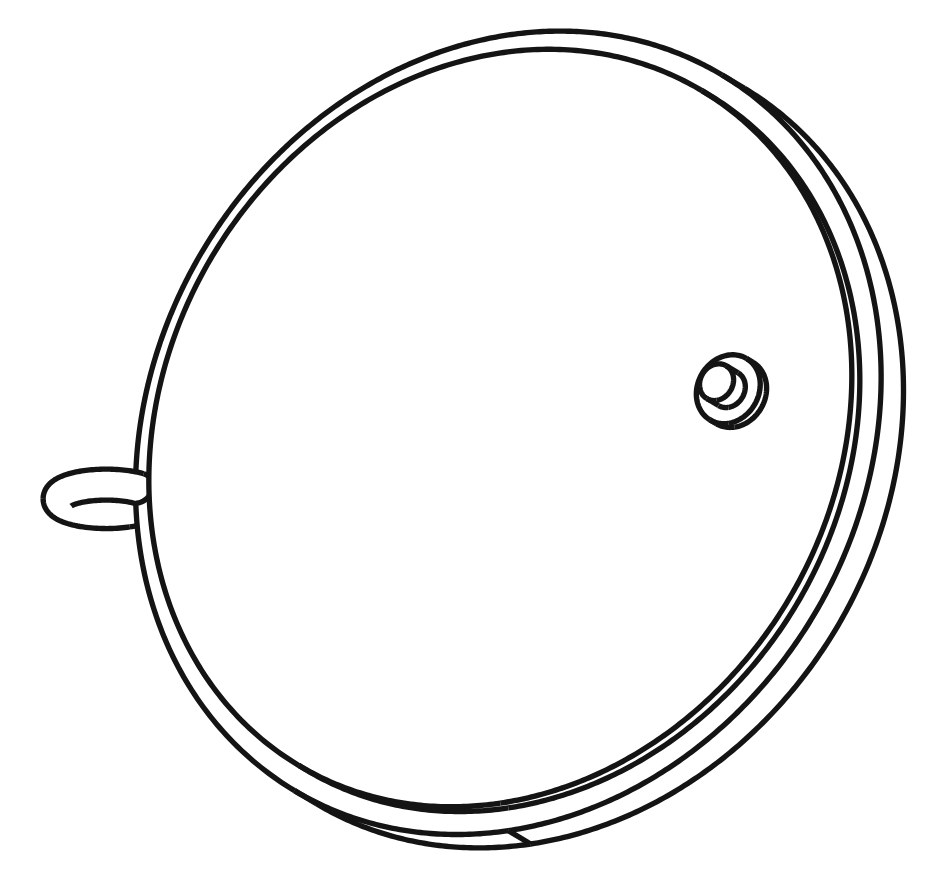
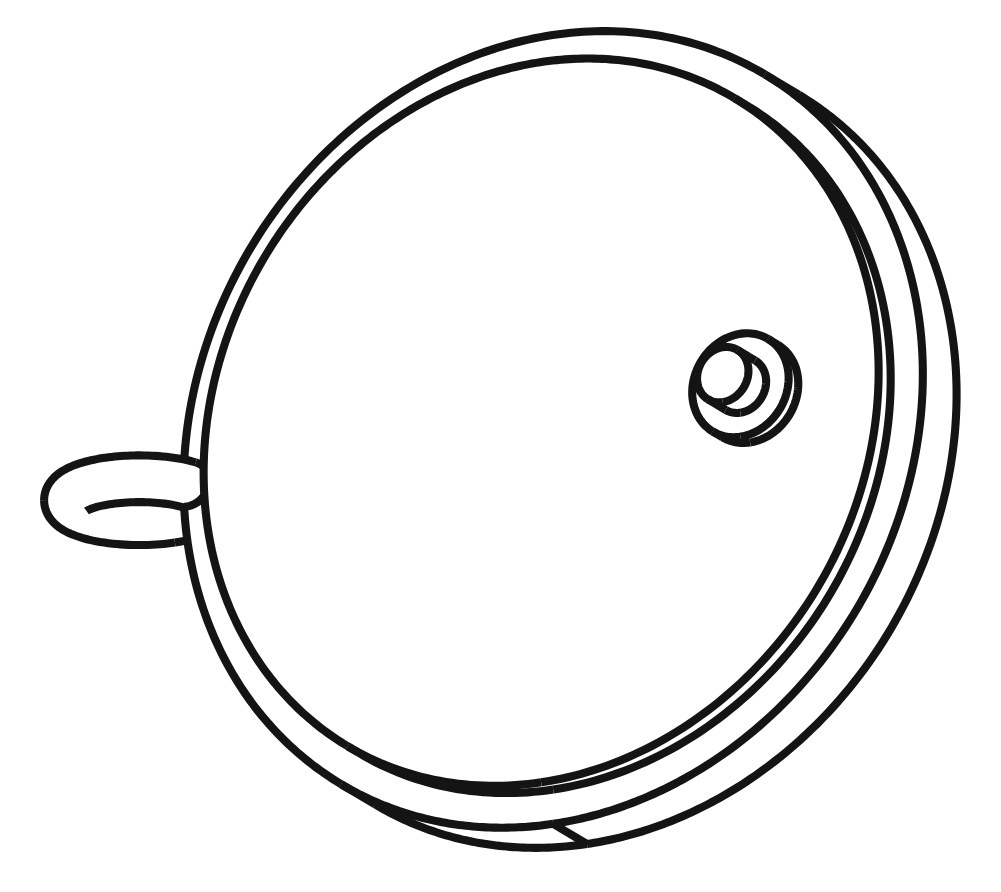
unfiled/lace: mirror and case made the same 4.6 cm, measurements in cm and a dimensioned drawing, so James can shop for a small mirror that matches

Changed region(s): [[0.0306, 0.0303, 0.9799, 0.9697], [0.6737, 0.3636, 0.8268, 0.5152]]

diff --git a/site/unfiled/lace/index.html b/site/unfiled/lace/index.html
@@ -43,20 +43,23 @@
 
 <h2>1. The pieces</h2>
 
+<div class="fig"><img src="img/06_pair_face.jpg" width="560" alt="Line drawing with dimensions: the wooden case face on and the mirror disc from behind, side by side, each 4.6 cm across, with a 1 cm scale bar."><br>
+<b>Fig. 0.</b> The pair, to scale. Two matching discs, each <b>4.6 cm</b> across. The wooden case is 1.6 cm deep with the Puck inside; the mirror is 0.4 cm with its leather backing (shown from behind, with its snap stud).</div>
+
 <div class="fig"><img src="img/02_case_front.jpg" width="320" alt="Line drawing, face on: a round wooden case with an engraved sigil of a ring, a stroke and two dots, a cord ring at the top and a small snap socket at the bottom."><br>
-<b>Fig. 1.</b> The everyday piece. A turned wooden case, 46 mm across, holding a Puck.js. The face is 1 mm of veneer, thin enough for the Puck's LED to glow through. The sigil is engraved: a ring, a stroke and two dots, which reads as a small face. Cord ring at the top, brass snap socket at the bottom.</div>
+<b>Fig. 1.</b> The everyday piece. A turned wooden case, 4.6 cm across and 1.6 cm deep, holding a Puck.js. The face is 1 mm of veneer, thin enough for the Puck's LED to glow through. The sigil is engraved: a ring, a stroke and two dots, which reads as a small face. Cord ring at the top, brass snap socket at the bottom.</div>
 
 <div class="fig"><img src="img/01_case_exploded.jpg" width="320" alt="Line drawing, exploded from below: the screw-on back cap, the Puck disc, and the wooden case above."><br>
-<b>Fig. 2.</b> Opened, seen from below. Screw-on back cap, the Puck (36 mm, its own coin cell), the case. The back unscrews to change the battery.</div>
+<b>Fig. 2.</b> Opened, seen from below. Screw-on back cap, the Puck (3.6 cm, its own coin cell), the case. The back unscrews to change the battery.</div>
 
 <div class="fig"><img src="img/03_case_section.jpg" width="520" alt="Line drawing, half section: the Puck sits inside the case behind the thin face, the back cap below, the snap socket on the left, the cord ring on the right."><br>
 <b>Fig. 3.</b> Half section. The Puck sits right behind the thin face, so its button presses through the wood and its light and radio pass through. The snap socket on the edge is wired inside to the Puck's touch pin.</div>
 
 <div class="fig"><img src="img/04_mirror_back.jpg" width="360" alt="Line drawing, a 70 mm disc seen from behind, with a cord loop at the top edge and a snap stud on the back."><br>
-<b>Fig. 4.</b> The mirror, from behind. A 70 mm disc with a raised rim on the face, leather on the back so it doesn't read your chest as a touch, a loop for the cord, and a male snap stud.</div>
+<b>Fig. 4.</b> The mirror, from behind. A 4.6 cm disc, the same size as the case, with a raised rim on the face, leather on the back so it doesn't read your chest as a touch, a loop for the cord, and a male snap stud.</div>
 
 <div class="fig"><img src="img/05_worn_together.jpg" width="260" alt="Line drawing: the mirror disc above, and the wooden case hanging below it on a short lead."><br>
-<b>Fig. 5.</b> Worn together. The mirror hangs on the chest and the Puck clips on below by one wire. The mirror is optional; wear it when you want to.</div>
+<b>Fig. 5.</b> Worn together. The mirror hangs on the chest and the Puck clips on below by one wire, about 2 cm of lead. Top to bottom it is about 12 cm. The mirror is optional; wear it when you want to.</div>
 
 <h2>2. How it works</h2>
 
@@ -114,16 +117,20 @@
 <h2>5. Spec</h2>
 <table>
 <tr><th>part</th><th>detail</th><th>about</th></tr>
-<tr><td>Puck.js v2 (Espruino)</td><td>36 mm, Bluetooth, NFC, button, RGB LEDs, accelerometer, gyro, magnetometer, IR transmitter, capacitive pin; runs JavaScript sent from a browser</td><td>&pound;35</td></tr>
-<tr><td>wooden case</td><td>turned or laser-cut, 46 &times; 16 mm, 1 mm veneer face, oiled, engraved sigil, screw back</td><td>hand-made</td></tr>
+<tr><td>Puck.js v2 (Espruino)</td><td>3.6 cm across, Bluetooth, NFC, button, RGB LEDs, accelerometer, gyro, magnetometer, IR transmitter, capacitive pin; runs JavaScript sent from a browser</td><td>&pound;35</td></tr>
+<tr><td>wooden case</td><td>turned or laser-cut, 4.6 cm across, 1.6 cm deep, 0.1 cm veneer face, oiled, engraved sigil, screw back</td><td>hand-made</td></tr>
 <tr><td>snap connector</td><td>conductive press stud: female set in the case wired to the touch pin, male on the mirror</td><td>&pound;3</td></tr>
-<tr><td>mirror disc (optional)</td><td>70 mm: polished brass or bronze, or black obsidian or glass; leather back; cord loop</td><td>&pound;10 to &pound;40</td></tr>
+<tr><td>mirror disc (optional)</td><td>4.6 cm across, 0.3 cm thick plus 0.15 cm leather: polished brass or bronze, or black obsidian or glass; cord loop</td><td>&pound;10 to &pound;40</td></tr>
 <tr><td>cord</td><td>waxed cotton or leather, with a short silicone-wire lead for the mirror</td><td>&pound;5</td></tr>
 <tr><td>battery</td><td>CR2032 coin cell, months of use</td><td>&pound;1</td></tr>
 <tr><td>the listener</td><td>a few lines of Python on the laptop (<tt>bleak</tt>), or the blimp's own boards, or Chrome over Web Bluetooth</td><td>free</td></tr>
 </table>
 
-<h2>6. House rules</h2>
+<h2>6. Finding a small mirror</h2>
+<p><span class="k">༼つ⚆‿◕‿◕༽つ</span> <b>Wob:</b> Chest mirrors come in many sizes. Look for one between <b>4 and 6 cm</b> across. Whatever size you find, turn the wooden case to match it: the case can be any diameter from about 4.2 cm (the Puck's 3.6 cm plus two thin walls) upward. Measure across the face, not the loop. Check the back is flat enough for the leather and the snap stud.</p>
+<p><span class="k">༼つ◕‿◕‿⚆༽つ</span> <b>Wib:</b> same size means they're twins!! one shines and one thinks, worn one above the other. like us.</p>
+
+<h2>7. House rules</h2>
 <ul>
 <li>No microphone, no camera, no GPS. The lace tells touched from not touched, and still from moving.</li>
 <li>Presence is room-level at most, and it is forgotten when you leave.</li>
